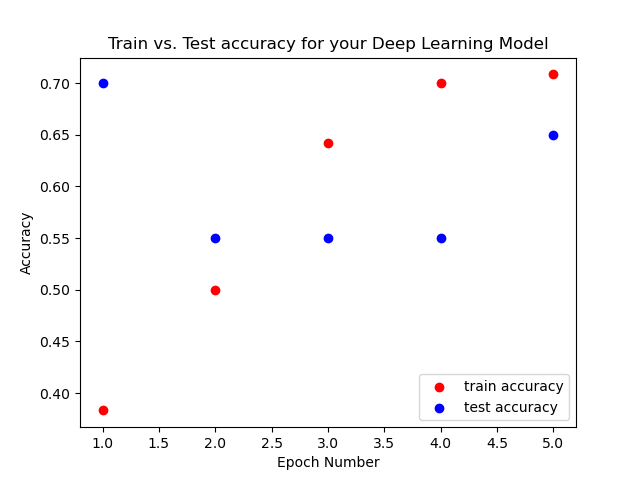
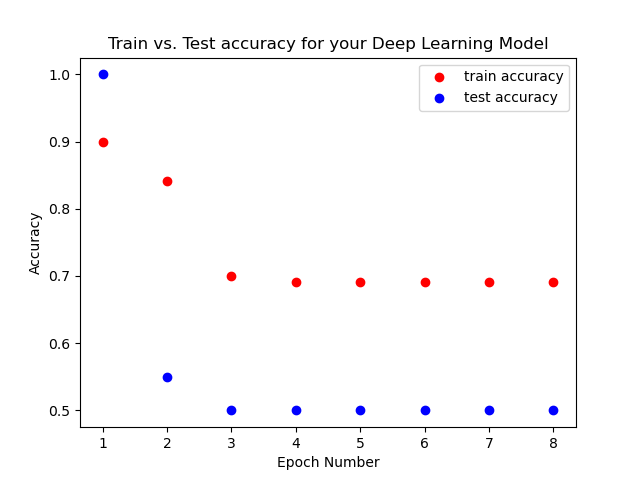
Test accuracy won't show for regression

diff --git a/frontend/playground-frontend/src/Home.js b/frontend/playground-frontend/src/Home.js
@@ -133,9 +133,7 @@ const Home = () => {
   ];
 
   const showResults = () => {
-    console.log(dlpBackendResponse);
-
-    if (dlpBackendResponse.success) {
+    if (dlpBackendResponse?.success) {
       return (
         <>
           <DataTable
@@ -145,10 +143,12 @@ const Home = () => {
             data={dl_results_data}
           />
           <>
-            <img
-              src={ACC_VIZ}
-              alt="Test accuracy for your Deep Learning Model"
-            />
+            {problemType.value === "classification" ? (
+              <img
+                src={ACC_VIZ}
+                alt="Test accuracy for your Deep Learning Model"
+              />
+            ) : undefined}
             <img
               src={LOSS_VIZ}
               alt="Train vs. Test for your Deep Learning Model"

diff --git a/frontend/playground-frontend/src/components/TrainButton.js b/frontend/playground-frontend/src/components/TrainButton.js
@@ -2,7 +2,7 @@ import React, { useState } from "react";
 import PropTypes from "prop-types";
 import RectContainer from "./RectContainer";
 import { COLORS, GENERAL_STYLES } from "../constants";
-import { train_and_output } from "../TalkWithBackend";
+import { train_and_output } from "../helper_functions/TalkWithBackend";
 
 const TrainButton = (props) => {
   const {
@@ -102,6 +102,8 @@ const TrainButton = (props) => {
       csvDataStr,
       fileURL
     );
+
+    console.log(response);
 
     setDLPBackendResponse(response);
 
